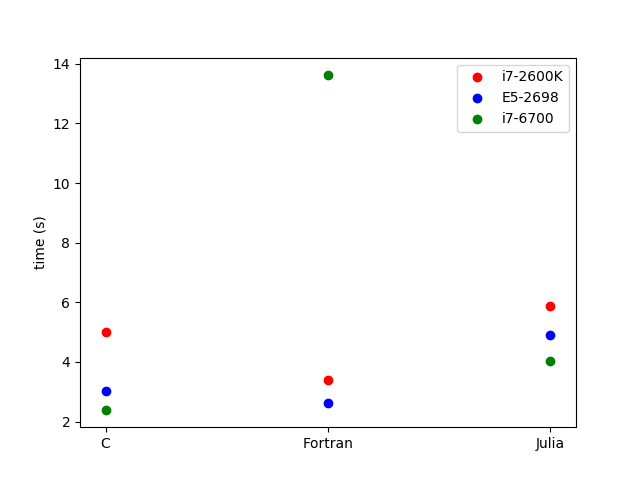
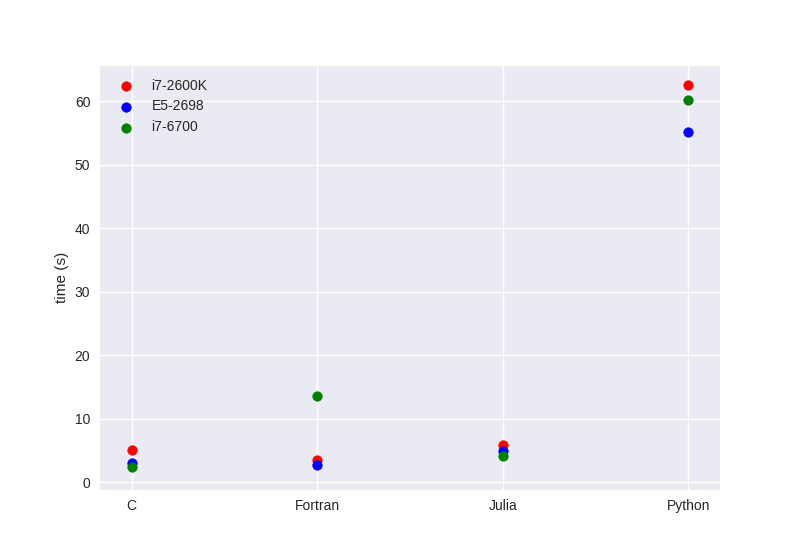
add python vectorize version

diff --git a/src/thermal_vec.py b/src/thermal_vec.py
@@ -1,0 +1,50 @@
+#!/usr/bin/env python3
+##################################
+# University of Wisconsin-Madison
+# Author: Yaqi Zhang
+##################################
+# simple thermal simulation
+##################################
+
+import numpy as np
+
+
+def main(N):
+    """thermal simulation"""
+    DEPOSIT_T = 543.15
+    max_temp = 0.0
+    D = 0.004
+    L = 0.005
+    dt = 0.2
+    RHO = 1050.0
+    C = 2080.0
+    PI = 3.1415926
+    free_area = PI * D * L
+    h = 75
+    ENVELOP_T = 343.15
+    e = 0.95
+    S_B = 5.67e-8
+    E_T = 343.15
+    cross_area = PI * D * D / 4.0
+    k = 0.177
+    Ts = DEPOSIT_T * np.ones(N)
+    Q_convs = np.zeros(N)
+    Q_radis = np.zeros(N)
+    Q_pres = np.zeros(N)
+    Q_sucs = np.zeros(N)
+    for i in range(N):
+        # update temperature of i + 1 elements
+        Q_convs[:i+1] = (Ts[:i+1] - ENVELOP_T) * free_area * h
+        Q_radis[:i+1] = (Ts[:i+1]**4 - E_T**4) * e * S_B * free_area
+        Q_pres[1:i+1] = (Ts[1:i+1] - Ts[0:i]) * k * cross_area / L
+        Q_sucs[0:i] = (Ts[0:i] - Ts[1:i+1]) * k * cross_area / L
+        m = RHO * PI * D * D / 4 * L
+        Ts[:i+1] = Ts[:i+1] - (Q_convs[:i+1] + Q_radis[:i+1] + Q_pres[:i+1] + Q_sucs[:i+1]) * dt / (m * C)
+        if(Ts[0] > max_temp):
+            max_temp = Ts[0]
+    print("maxTemp = {:f}".format(max_temp))
+
+
+if __name__ == "__main__":
+    N = 40000
+    main(N)

diff --git a/images/plot.py b/images/plot.py
@@ -8,19 +8,22 @@
 
 import numpy as np
 import matplotlib.pyplot as plt
+plt.style.use("seaborn")
+# import seaborn
+# seaborn.set()
 
 
 if __name__ == "__main__":
-    i7_2600_times = [5.014, 3.405, 5.860]
-    e5_times = [3.012, 2.632, 4.887]
-    i7_6700_times = [2.403, 13.615, 4.032]
-    n = 3
-    xticks = ['C', 'Fortran', 'Julia']
+    i7_2600_times = [5.014, 3.405, 5.860, 62.517]
+    e5_times = [3.012, 2.632, 4.887, 55.174]
+    i7_6700_times = [2.403, 13.615, 4.032, 60.159]
+    xticks = ['C', 'Fortran', 'Julia', 'Python']
+    n = len(xticks)
     plt.scatter(np.arange(n), i7_2600_times, color="red", label="i7-2600K")
     plt.scatter(np.arange(n), e5_times, color='blue', label="E5-2698")
     plt.scatter(np.arange(n), i7_6700_times, color="green", label="i7-6700")
     plt.xticks(np.arange(n), xticks)
     plt.ylabel('time (s)')
-    plt.legend(loc="upper right")
+    plt.legend(loc="upper left")
     plt.show()
 

diff --git a/src/thermal.py b/src/thermal.py
@@ -64,5 +64,5 @@ def main(N):
 
 
 if __name__ == "__main__":
-    N = 4000
+    N = 40
     main(N)

diff --git a/README.md b/README.md
@@ -7,7 +7,7 @@ On Intel(R) Core(TM) i7-2600k CPU, the running time is listed below
 C: 5.014 s
 Fortran: 3.405 s
 Julia: 5.860 s
-Python: more than 5 min
+Python: 62.517 s
 ```
 
 On Intel(R) Xeon(R) CPU E5-2698 V4, the running time is listed below
@@ -15,7 +15,7 @@ On Intel(R) Xeon(R) CPU E5-2698 V4, the running time is listed below
 C: 3.012 s
 Fortran: 2.632 s
 Julia: 4.887 s
-Python: more than 5 min
+Python: 55.174 s
 ```
 
 On Intel(R) Core(TM) i7-6700 CPU, the running time is listed below
@@ -23,7 +23,7 @@ On Intel(R) Core(TM) i7-6700 CPU, the running time is listed below
 C: 2.403 s
 Fortran: 13.615 s
 Julia: 4.032 s
-Python: more than 5 min
+Python: 60.159 s
 ```
 
 The comparison is plotted in below figure
@@ -32,5 +32,5 @@ The comparison is plotted in below figure
 
 
 From it, we can see the speed of Julia is very impressive.
-It is very suitable for scientific computing.
+It maybe the future of scientific computing. 
 
